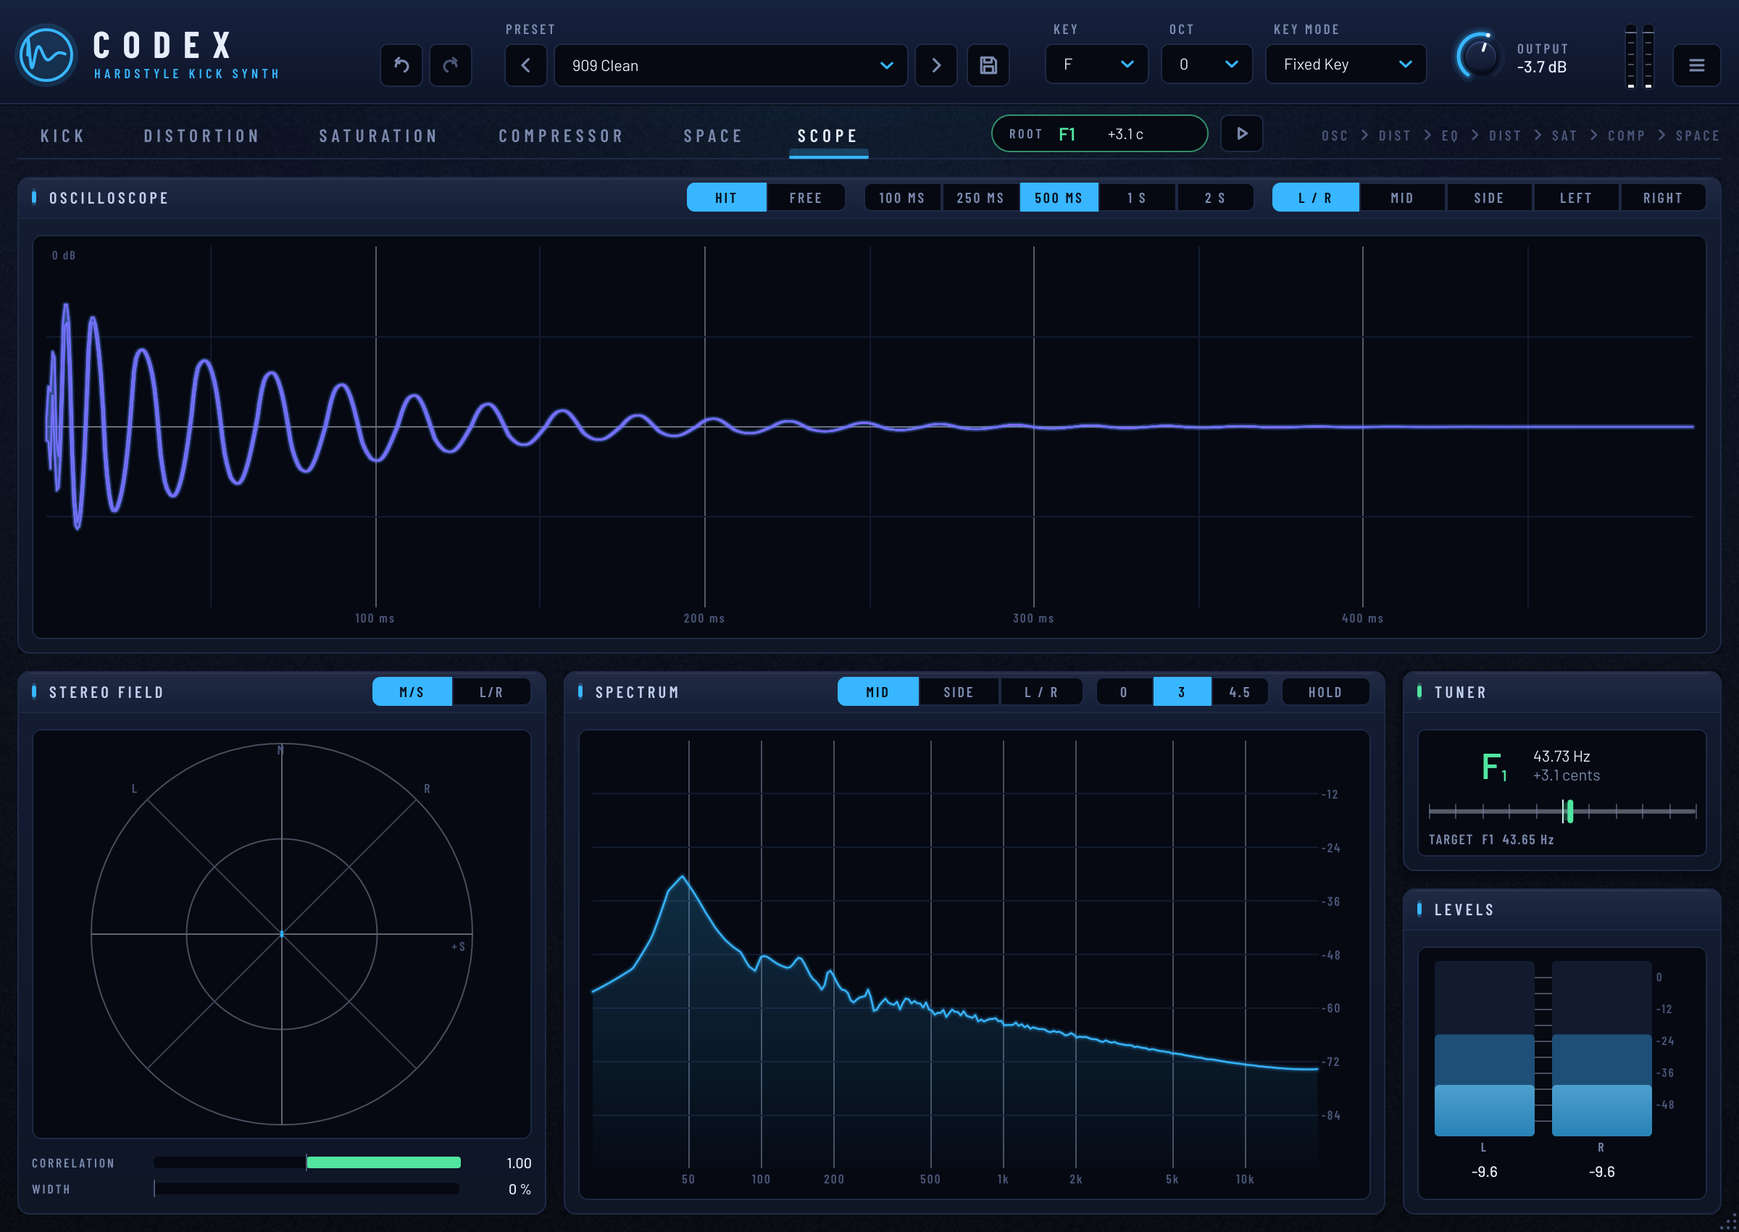
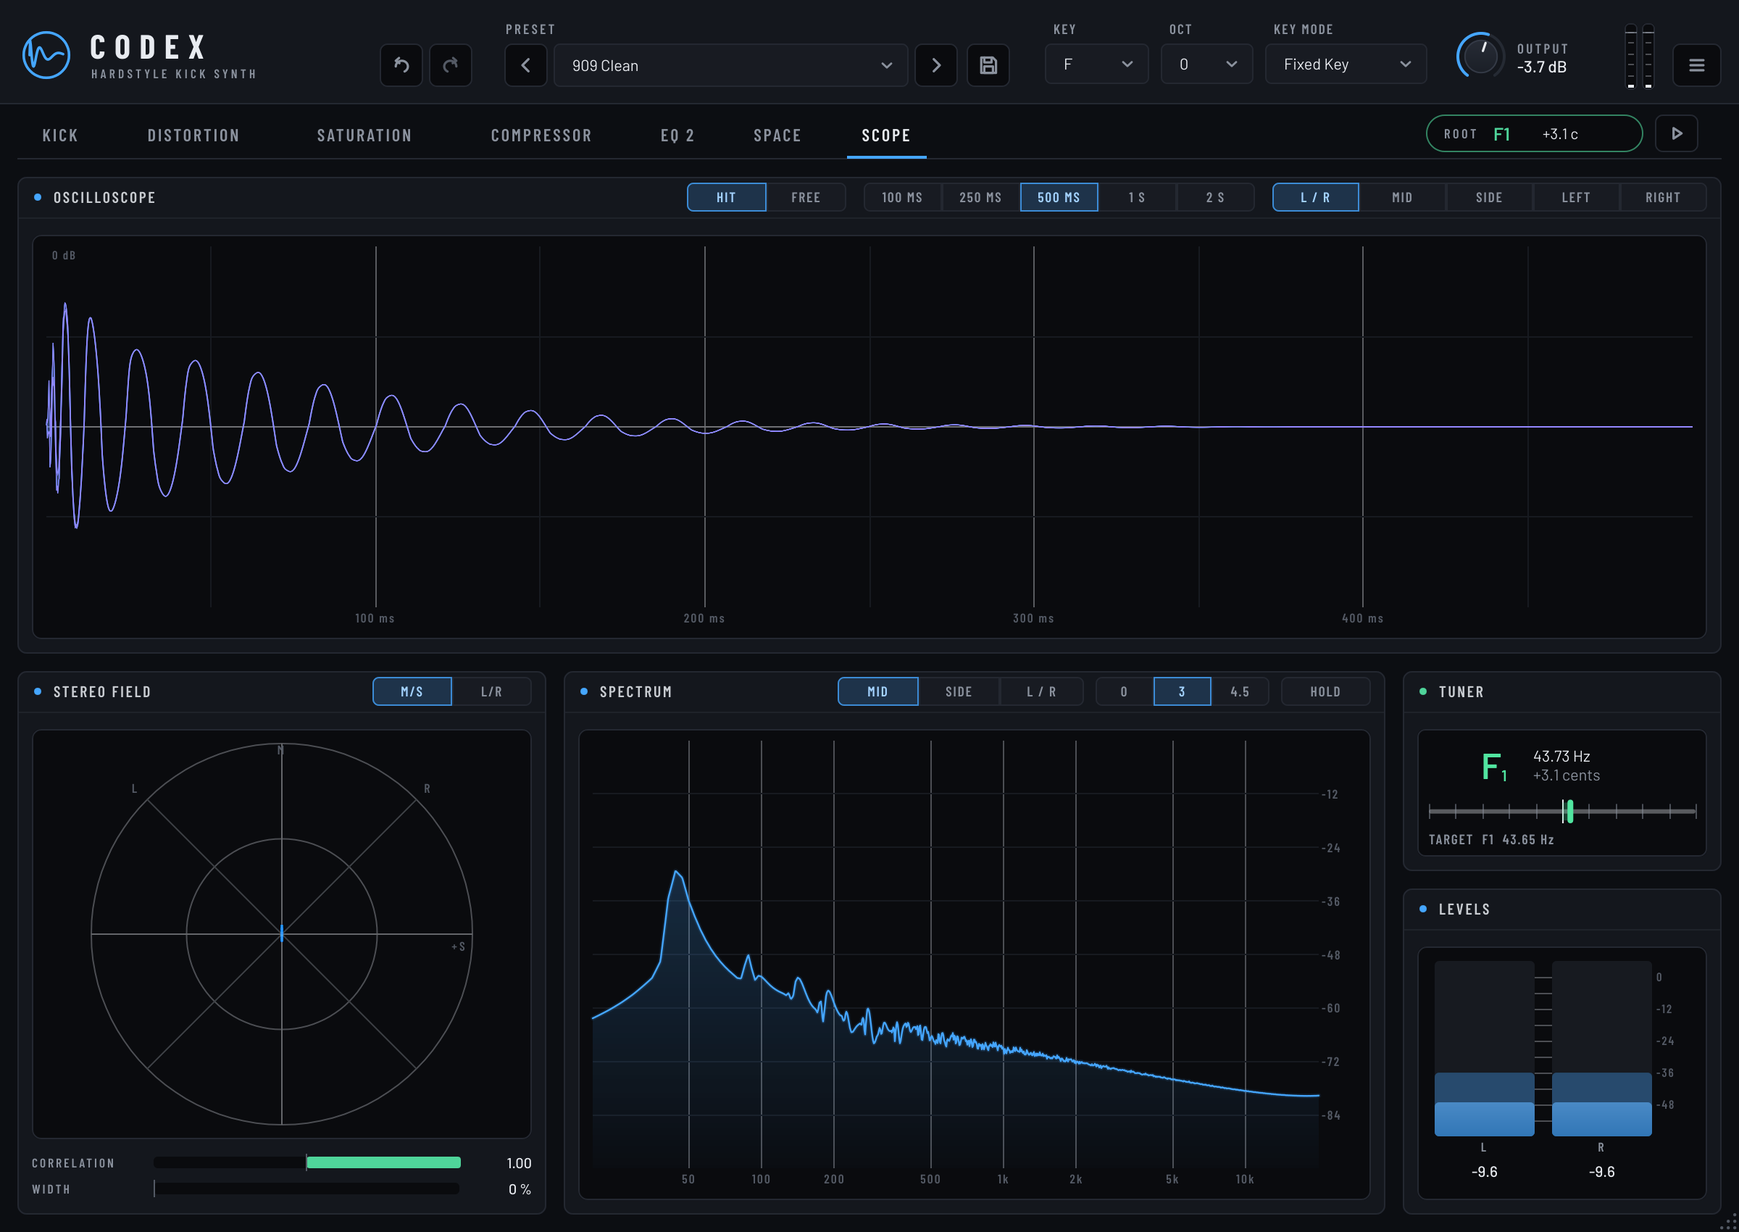
UI: cleaner flat theme (graphite, flat panels, thinner knobs), updated screenshots
Claude-Session: https://claude.ai/code/session_01XxMp2YJXw4rSjWE8GsvmNR

diff --git a/Source/GUI/LookAndFeel.h b/Source/GUI/LookAndFeel.h
@@ -3,26 +3,26 @@
 #include "CodexAssets.h"
 
 //==============================================================================
-/** Colour palette: deep navy with a blue glow. */
+/** Colour palette: clean graphite with a cool blue accent (flat, studio-tool look). */
 namespace Colours_
 {
-    const juce::Colour background { 0xff090d17 };
-    const juce::Colour panel      { 0xff0f1626 };
-    const juce::Colour panelTop   { 0xff141d33 };
-    const juce::Colour header     { 0xff151f38 };
-    const juce::Colour display    { 0xff060912 };
-    const juce::Colour outline    { 0xff1e2944 };
-    const juce::Colour outlineHi  { 0xff2c3b61 };
-    const juce::Colour knobTrack  { 0xff19223b };
-    const juce::Colour accent     { 0xff38b6ff }; // primary blue
-    const juce::Colour accentHi   { 0xff9adcff };
-    const juce::Colour accent2    { 0xff7d6bff }; // violet (pitch envelope)
-    const juce::Colour good       { 0xff51e5a0 };
-    const juce::Colour warn       { 0xffff4d6d };
-    const juce::Colour text       { 0xffe6edfb };
-    const juce::Colour textDim    { 0xff7c8aae };
-    const juce::Colour textFaint  { 0xff4a5677 };
-    const juce::Colour grid       { 0xff121a2e };
+    const juce::Colour background { 0xff0c0e12 };
+    const juce::Colour panel      { 0xff14171d };
+    const juce::Colour panelTop   { 0xff181b22 };
+    const juce::Colour header     { 0xff181b22 };
+    const juce::Colour display    { 0xff0a0b0e };
+    const juce::Colour outline    { 0xff242831 };
+    const juce::Colour outlineHi  { 0xff343a46 };
+    const juce::Colour knobTrack  { 0xff252a33 };
+    const juce::Colour accent     { 0xff45a6ff }; // primary blue
+    const juce::Colour accentHi   { 0xffa3d2ff };
+    const juce::Colour accent2    { 0xff9487ff }; // violet (pitch envelope)
+    const juce::Colour good       { 0xff4fd49a };
+    const juce::Colour warn       { 0xffff5a6a };
+    const juce::Colour text       { 0xffe8ebf0 };
+    const juce::Colour textDim    { 0xff8b929e };
+    const juce::Colour textFaint  { 0xff545a65 };
+    const juce::Colour grid       { 0xff171a20 };
 
     inline juce::Colour band (int i)
     {
@@ -34,10 +34,9 @@ namespace Colours_
     /** Draws a path twice: a wide translucent "glow" and a crisp core line. */
     inline void strokeGlow (juce::Graphics& g, const juce::Path& p, juce::Colour c, float width)
     {
-        g.setColour (c.withAlpha (0.10f));
-        g.strokePath (p, juce::PathStrokeType (width * 4.0f, juce::PathStrokeType::curved, juce::PathStrokeType::rounded));
-        g.setColour (c.withAlpha (0.22f));
-        g.strokePath (p, juce::PathStrokeType (width * 2.2f, juce::PathStrokeType::curved, juce::PathStrokeType::rounded));
+        // a restrained halo: just enough to lift curves off the display
+        g.setColour (c.withAlpha (0.12f));
+        g.strokePath (p, juce::PathStrokeType (width * 2.6f, juce::PathStrokeType::curved, juce::PathStrokeType::rounded));
         g.setColour (c);
         g.strokePath (p, juce::PathStrokeType (width, juce::PathStrokeType::curved, juce::PathStrokeType::rounded));
     }
@@ -71,7 +70,7 @@ namespace Fonts
     inline juce::FontOptions medium (float h)   { return make (faces().medium, h); }
     inline juce::FontOptions semibold (float h) { return make (faces().semibold, h); }
     /** Upper-case captions: condensed with tracking. */
-    inline juce::FontOptions label (float h, float tracking = 0.12f) { return make (faces().condensed, h).withKerningFactor (tracking); }
+    inline juce::FontOptions label (float h, float tracking = 0.08f) { return make (faces().condensed, h).withKerningFactor (tracking); }
     /** Headlines / logo. */
     inline juce::FontOptions display (float h, float tracking = 0.18f) { return make (faces().condensedBold, h).withKerningFactor (tracking); }
 }
@@ -261,7 +260,7 @@ public:
         const auto bounds = juce::Rectangle<float> ((float) x, (float) y, (float) w, (float) h).reduced (3.0f);
         const float radius = juce::jmin (bounds.getWidth(), bounds.getHeight()) * 0.5f;
         const auto centre = bounds.getCentre();
-        const float lineW = juce::jlimit (2.5f, 5.0f, radius * 0.1f);
+        const float lineW = juce::jlimit (2.0f, 3.5f, radius * 0.075f);
         const float arcR = radius - lineW;
         const float angle = startAngle + pos * (endAngle - startAngle);
         const bool hot = s.isMouseOverOrDragging() && s.isEnabled();
@@ -282,40 +281,26 @@ public:
         {
             juce::Path value;
             value.addCentredArc (centre.x, centre.y, arcR, arcR, 0.0f, juce::jmin (from, angle), juce::jmax (from, angle), true);
-            Colours_::strokeGlow (g, value, arcColour, lineW);
+            g.setColour (arcColour);
+            g.strokePath (value, juce::PathStrokeType (lineW, juce::PathStrokeType::curved, juce::PathStrokeType::rounded));
         }
 
-        // Body with drop shadow, bevelled rim and a soft top highlight
-        const float bodyR = arcR - lineW * 2.0f;
+        // Flat body with a hairline rim
+        const float bodyR = arcR - lineW * 2.2f;
         const auto body = juce::Rectangle<float> (bodyR * 2.0f, bodyR * 2.0f).withCentre (centre);
-        g.setColour (juce::Colours::black.withAlpha (0.45f));
-        g.fillEllipse (body.translated (0.0f, bodyR * 0.12f).expanded (1.5f));
-        g.setGradientFill (juce::ColourGradient (juce::Colour (0xff26335a), centre.x, body.getY(),
-                                                 juce::Colour (0xff0e1528), centre.x, body.getBottom(), false));
+        g.setGradientFill (juce::ColourGradient (juce::Colour (0xff272c36), centre.x, body.getY(),
+                                                 juce::Colour (0xff1b1f27), centre.x, body.getBottom(), false));
         g.fillEllipse (body);
-        g.setGradientFill (juce::ColourGradient (juce::Colour (0xff3d4e80), centre.x, body.getY(),
-                                                 juce::Colour (0xff0b1120), centre.x, body.getBottom(), false));
+        g.setColour (hot ? outlineHi.brighter (0.2f) : outlineHi);
         g.drawEllipse (body.reduced (0.5f), 1.0f);
-        const auto cap = body.reduced (bodyR * 0.18f);
-        g.setGradientFill (juce::ColourGradient (juce::Colour (0xff1d2846), centre.x, cap.getY(),
-                                                 juce::Colour (0xff141c33), centre.x, cap.getBottom(), false));
-        g.fillEllipse (cap);
 
         // Pointer
         const auto dir = juce::Point<float> (std::sin (angle), -std::cos (angle));
         juce::Path pointer;
-        pointer.startNewSubPath (centre + dir * (bodyR * 0.42f));
-        pointer.lineTo (centre + dir * (bodyR * 0.86f));
+        pointer.startNewSubPath (centre + dir * (bodyR * 0.35f));
+        pointer.lineTo (centre + dir * (bodyR * 0.85f));
         g.setColour (s.isEnabled() ? (hot ? juce::Colours::white : text) : textFaint);
-        g.strokePath (pointer, juce::PathStrokeType (juce::jmax (2.0f, bodyR * 0.11f), juce::PathStrokeType::curved, juce::PathStrokeType::rounded));
-
-        // Position dot on the ring
-        if (s.isEnabled())
-        {
-            const auto dot = centre + dir * arcR;
-            g.setColour (juce::Colours::white);
-            g.fillEllipse (juce::Rectangle<float> (lineW * 1.15f, lineW * 1.15f).withCentre (dot));
-        }
+        g.strokePath (pointer, juce::PathStrokeType (juce::jmax (1.6f, bodyR * 0.08f), juce::PathStrokeType::curved, juce::PathStrokeType::rounded));
     }
 
     void drawLinearSlider (juce::Graphics& g, int x, int y, int w, int h, float pos, float, float,
@@ -373,9 +358,9 @@ public:
         if (dynamic_cast<juce::Slider*> (l.getParentComponent()) != nullptr)
             return juce::Font (Fonts::medium (13.0f));
         if (l.getProperties().contains ("captionLarge"))
-            return juce::Font (Fonts::label (15.0f, 0.2f));
+            return juce::Font (Fonts::label (14.0f, 0.12f));
         if (l.getProperties().contains ("caption"))
-            return juce::Font (Fonts::label (11.5f, 0.14f));
+            return juce::Font (Fonts::label (11.5f, 0.09f));
         return juce::Font (Fonts::regular (13.0f));
     }
 
@@ -384,12 +369,12 @@ public:
     {
         auto r = juce::Rectangle<float> (0, 0, (float) w, (float) h).reduced (0.5f);
         const bool hot = box.isMouseOver (true) || box.isPopupActive();
-        g.setColour (hot ? Colours_::display.brighter (0.06f) : Colours_::display);
-        g.fillRoundedRectangle (r, 5.0f);
-        g.setColour (hot ? Colours_::accent.withAlpha (0.55f) : Colours_::outline);
-        g.drawRoundedRectangle (r, 5.0f, 1.0f);
-        Icons::draw (g, Icons::chevronDown(), juce::Rectangle<float> ((float) w - 22.0f, 0.0f, 14.0f, (float) h).withSizeKeepingCentre (12.0f, 12.0f),
-                     hot ? Colours_::accentHi : Colours_::accent, 1.6f);
+        g.setColour (hot ? Colours_::panelTop.brighter (0.05f) : Colours_::panelTop);
+        g.fillRoundedRectangle (r, 4.0f);
+        g.setColour (hot ? Colours_::outlineHi.brighter (0.2f) : Colours_::outline);
+        g.drawRoundedRectangle (r, 4.0f, 1.0f);
+        Icons::draw (g, Icons::chevronDown(), juce::Rectangle<float> ((float) w - 22.0f, 0.0f, 14.0f, (float) h).withSizeKeepingCentre (10.0f, 10.0f),
+                     hot ? Colours_::text : Colours_::textDim, 1.4f);
     }
 
     juce::Font getComboBoxFont (juce::ComboBox&) override { return juce::Font (Fonts::medium (14.0f)); }
@@ -492,11 +477,8 @@ public:
         {
             if (b.getToggleState())
             {
-                auto line = r.removeFromBottom (2.0f).reduced (8.0f, 0.0f);
-                g.setColour (Colours_::accent.withAlpha (0.25f));
-                g.fillRoundedRectangle (line.expanded (0.0f, 3.0f).translated (0.0f, -2.0f), 2.0f);
                 g.setColour (Colours_::accent);
-                g.fillRoundedRectangle (line, 1.0f);
+                g.fillRect (r.removeFromBottom (2.0f).reduced (6.0f, 0.0f));
             }
             return;
         }
@@ -504,10 +486,10 @@ public:
         if (id == "pill")
         {
             const bool on = b.getToggleState();
-            g.setColour (on ? Colours_::accent.withAlpha (0.18f) : Colours_::display);
-            g.fillRoundedRectangle (r, r.getHeight() * 0.5f);
-            g.setColour (on ? Colours_::accent : (over ? Colours_::outlineHi : Colours_::outline));
-            g.drawRoundedRectangle (r, r.getHeight() * 0.5f, 1.0f);
+            g.setColour (on ? Colours_::accent.withAlpha (0.16f) : (over ? Colours_::panelTop.brighter (0.04f) : Colours_::panelTop));
+            g.fillRoundedRectangle (r, 4.0f);
+            g.setColour (on ? Colours_::accent.withAlpha (0.8f) : (over ? Colours_::outlineHi : Colours_::outline));
+            g.drawRoundedRectangle (r, 4.0f, 1.0f);
             return;
         }
 
@@ -517,11 +499,11 @@ public:
             const bool first = b.getConnectedEdgeFlags() & juce::Button::ConnectedOnRight;
             const bool last  = b.getConnectedEdgeFlags() & juce::Button::ConnectedOnLeft;
             juce::Path p;
-            p.addRoundedRectangle (r.getX(), r.getY(), r.getWidth(), r.getHeight(), 5.0f, 5.0f,
+            p.addRoundedRectangle (r.getX(), r.getY(), r.getWidth(), r.getHeight(), 4.0f, 4.0f,
                                    ! last, ! first, ! last, ! first);
-            g.setColour (on ? Colours_::accent : (over ? Colours_::panelTop : Colours_::display));
+            g.setColour (on ? Colours_::accent.withAlpha (0.2f) : (over ? Colours_::panelTop.brighter (0.04f) : Colours_::panelTop));
             g.fillPath (p);
-            g.setColour (on ? Colours_::accent : Colours_::outline);
+            g.setColour (on ? Colours_::accent.withAlpha (0.8f) : Colours_::outline);
             g.strokePath (p, juce::PathStrokeType (1.0f));
             return;
         }
@@ -541,7 +523,7 @@ public:
         if (id == "kick")      c = juce::Colour (0xff04101e);
         else if (id == "tab")  c = b.getToggleState() ? Colours_::text : (over ? Colours_::text.withAlpha (0.8f) : Colours_::textDim);
         else if (id == "pill") c = b.getToggleState() ? Colours_::accentHi : Colours_::textDim;
-        else if (id == "seg")  c = b.getToggleState() ? juce::Colour (0xff04101e) : (over ? Colours_::text : Colours_::textDim);
+        else if (id == "seg")  c = b.getToggleState() ? Colours_::accentHi : (over ? Colours_::text : Colours_::textDim);
         else                   c = b.getToggleState() ? b.findColour (juce::TextButton::textColourOnId)
                                                       : (over ? Colours_::text : b.findColour (juce::TextButton::textColourOffId));
         if (! b.isEnabled()) c = Colours_::textFaint;
@@ -554,8 +536,8 @@ public:
     {
         const auto id = b.getComponentID();
         if (id == "kick") return juce::Font (Fonts::display (19.0f, 0.3f));
-        if (id == "tab")  return juce::Font (Fonts::label (15.0f, 0.2f));
-        return juce::Font (Fonts::label (juce::jmin (13.5f, (float) h * 0.6f), 0.12f));
+        if (id == "tab")  return juce::Font (Fonts::label (14.5f, 0.1f));
+        return juce::Font (Fonts::label (juce::jmin (13.0f, (float) h * 0.58f), 0.08f));
     }
 
     //==========================================================================

diff --git a/Source/GUI/Widgets.h b/Source/GUI/Widgets.h
@@ -387,34 +387,22 @@ public:
 inline void drawSectionPanel (juce::Graphics& g, juce::Rectangle<int> r, const juce::String& title, juce::Colour dot)
 {
     using namespace juce;
+    // Flat card: one fill, a hairline border and a quiet header line (no gradients or shadows)
     const auto rf = r.toFloat();
-    for (int i = 3; i > 0; --i)
-    {
-        g.setColour (Colours::black.withAlpha (0.09f));
-        g.fillRoundedRectangle (rf.expanded ((float) i * 1.5f).translated (0.0f, (float) i), 10.0f);
-    }
-    g.setGradientFill (ColourGradient (Colours_::panelTop, 0, rf.getY(), Colours_::panel, 0, rf.getBottom(), false));
-    g.fillRoundedRectangle (rf, 8.0f);
+    g.setColour (Colours_::panel);
+    g.fillRoundedRectangle (rf, 6.0f);
+    g.setColour (Colours_::outline);
+    g.drawRoundedRectangle (rf.reduced (0.5f), 6.0f, 1.0f);
 
     auto strip = rf.withHeight (28.0f);
-    Path headerPath;
-    headerPath.addRoundedRectangle (strip.getX(), strip.getY(), strip.getWidth(), strip.getHeight(), 8.0f, 8.0f, true, true, false, false);
-    g.setGradientFill (ColourGradient (Colours_::header.brighter (0.06f), 0, strip.getY(), Colours_::header, 0, strip.getBottom(), false));
-    g.fillPath (headerPath);
-    g.setColour (Colours_::outline);
-    g.drawHorizontalLine ((int) strip.getBottom(), strip.getX(), strip.getRight());
-    g.setColour (Colours::white.withAlpha (0.05f));
-    g.drawHorizontalLine ((int) strip.getY() + 1, strip.getX() + 8.0f, strip.getRight() - 8.0f);
-    g.setColour (Colours_::outline);
-    g.drawRoundedRectangle (rf.reduced (0.5f), 8.0f, 1.0f);
+    g.setColour (Colours_::outline.withAlpha (0.7f));
+    g.drawHorizontalLine ((int) strip.getBottom(), strip.getX() + 1.0f, strip.getRight() - 1.0f);
 
-    g.setColour (dot.withAlpha (0.25f));
-    g.fillRoundedRectangle (rf.getX() + 10.0f, strip.getCentreY() - 6.0f, 3.0f, 12.0f, 1.5f);
     g.setColour (dot);
-    g.fillRoundedRectangle (rf.getX() + 10.0f, strip.getCentreY() - 4.0f, 3.0f, 8.0f, 1.5f);
-    g.setColour (Colour (0xffc3d0ee));
-    g.setFont (Fonts::label (13.5f, 0.16f));
-    g.drawText (title, strip.withTrimmedLeft (22.0f), Justification::centredLeft);
+    g.fillEllipse (Rectangle<float> (5.0f, 5.0f).withCentre ({ rf.getX() + 14.0f, strip.getCentreY() }));
+    g.setColour (Colours_::text.withAlpha (0.86f));
+    g.setFont (Fonts::label (13.0f, 0.1f));
+    g.drawText (title, strip.withTrimmedLeft (25.0f), Justification::centredLeft);
 }
 
 /** Small caption with a rule, drawn above a group of controls. */
@@ -422,7 +410,7 @@ inline void drawGroupCaption (juce::Graphics& g, juce::Rectangle<int> r, const j
 {
     using namespace juce;
     g.setColour (Colours_::textDim);
-    const auto font = Font (Fonts::label (11.5f, 0.18f));
+    const auto font = Font (Fonts::label (11.5f, 0.1f));
     g.setFont (font);
     g.drawText (text, r, Justification::centredLeft);
     GlyphArrangement ga;

diff --git a/Source/GUI/PluginEditor.cpp b/Source/GUI/PluginEditor.cpp
@@ -250,21 +250,13 @@ void MainView::showTab (int tab)
 //==============================================================================
 void MainView::paint (Graphics& g)
 {
-    // Background: vertical gradient, soft blue glow at the top, film grain
-    g.setGradientFill (ColourGradient (Colour (0xff0c1324), 0, 0, Colour (0xff060910), 0, (float) getHeight(), false));
-    g.fillAll();
-    g.setGradientFill (ColourGradient (Colours_::accent.withAlpha (0.07f), (float) getWidth() * 0.5f, 0.0f,
-                                       Colours::transparentBlack, (float) getWidth() * 0.5f, (float) getHeight() * 0.6f, true));
-    g.fillAll();
-    g.setTiledImageFill (noiseTile(), 0, 0, 1.0f);
-    g.fillAll();
+    // Background: flat graphite
+    g.fillAll (Colours_::background);
 
     // Header bar
     const auto bar = getLocalBounds().removeFromTop (header.getBottom() + 8).toFloat();
-    g.setGradientFill (ColourGradient (Colour (0xff17223f), 0, 0, Colour (0xff0e1528), 0, bar.getBottom(), false));
+    g.setColour (Colours_::panel);
     g.fillRect (bar);
-    g.setColour (Colours::black.withAlpha (0.4f));
-    g.drawHorizontalLine ((int) bar.getBottom(), 0, (float) getWidth());
     g.setColour (Colours_::outline);
     g.drawHorizontalLine ((int) bar.getBottom() - 1, 0, (float) getWidth());
 
@@ -272,15 +264,13 @@ void MainView::paint (Graphics& g)
     {
         auto r = logoArea.toFloat();
         auto mark = r.removeFromLeft (40.0f).withSizeKeepingCentre (38.0f, 38.0f);
-        g.setColour (Colours_::accent.withAlpha (0.15f));
-        g.fillEllipse (mark.expanded (3.0f));
-        Icons::draw (g, Icons::kickMark(), mark, Colours_::accent, 2.0f);
-        r.removeFromLeft (12.0f);
+        Icons::draw (g, Icons::kickMark(), mark.reduced (2.0f), Colours_::accent, 1.8f);
+        r.removeFromLeft (10.0f);
         g.setColour (Colours_::text);
-        g.setFont (Fonts::display (31.0f, 0.28f));
+        g.setFont (Fonts::display (28.0f, 0.22f));
         g.drawText ("CODEX", r.removeFromTop (r.getHeight() * 0.64f), Justification::bottomLeft);
-        g.setColour (Colours_::accent);
-        g.setFont (Fonts::label (11.0f, 0.24f));
+        g.setColour (Colours_::textDim);
+        g.setFont (Fonts::label (10.5f, 0.2f));
         g.drawText ("HARDSTYLE KICK SYNTH", r.translated (1.0f, 0.0f), Justification::topLeft);
     }
 

diff --git a/README.md b/README.md
@@ -65,7 +65,7 @@ distortion, so you can see your kick is in key. It turns green within 10 cents o
 |---|---|
 | **Source: Synth** | *Wave* (Sine, Triangle, Warm Sine), *Fine Tune*, *Phase* (start phase), *Click* (noise transient: level, decay, tone). |
 | **Source: 909** | Synthesized 909-style bass drum. *909 Model* (Classic, Long Tail, Punch, Deep, Hard Attack, Gabber, Early Hardstyle, Boom, Driven, Short Tok) plus the original's *Tune* (sweep depth), *Attack* (click) and *Decay*. |
-| **Pitch Envelope** | ADSR for the pitch sweep, with *Amount* (semitones above the root) and *Curve*. Inactive in 909 mode. |
+| **Pitch Envelope** | ADSR for the pitch sweep (drag the points in the display, or use the knobs), with *Amount* (semitones above the root) and *Curve*. Inactive in 909 mode. |
 | **Amp Envelope** | ADSR for volume with *Curve*. In 909 mode it acts as a gate (attack and release only). |
 | **Equalizer** | Up to **24 bands** (the Pro-Q 4 limit): double-click the display or press **+ ADD** to add one, **DELETE** (or the Delete key) to remove it, the power button or Alt-click to bypass it; only bands in use are shown. 10 shapes: Bell, Low/High Shelf, Low/High Cut, Notch, Band Pass, Tilt Shelf, Flat Tilt, All Pass. Slopes 6–96 dB/oct. Each band has a **stereo placement** (Stereo, Left, Right, **Mid**, **Side**); the display draws a result curve per channel group. Right-click a node to **split** a band into L+R or M+S. *Gain Scale* scales all gains at once. Analyzer with Pre/Post/Freeze and range/speed/tilt settings; display range 3/6/12/30 dB (expands automatically). |
 

diff --git a/CHANGELOG.md b/CHANGELOG.md
@@ -17,6 +17,11 @@ All notable changes to Codex. Versions follow [Semantic Versioning](https://semv
 - Distortion units show a clear **BYPASSED** state with an ENABLE button.
 
 ### Changed
+- Cleaner, flatter interface (graphite palette, flat panels, thinner knobs, subtle glows), modelled on modern
+  mastering suites such as Ozone 12.
+- All displays animate at 60 fps; the scope, spectrum and stereo field render at the screen's full pixel density, and
+  the oscilloscope captures 4x more detail per hit.
+- Envelope displays are editable: drag the attack, decay/sustain, release and curve points directly.
 - Tabs follow the signal chain: Kick, Distortion, Saturation, Compressor, EQ 2, Space, Scope.
 - Smaller Drive knobs in the distortion units and the saturation band panel.
 - The host's tail length follows the reverb decay.
